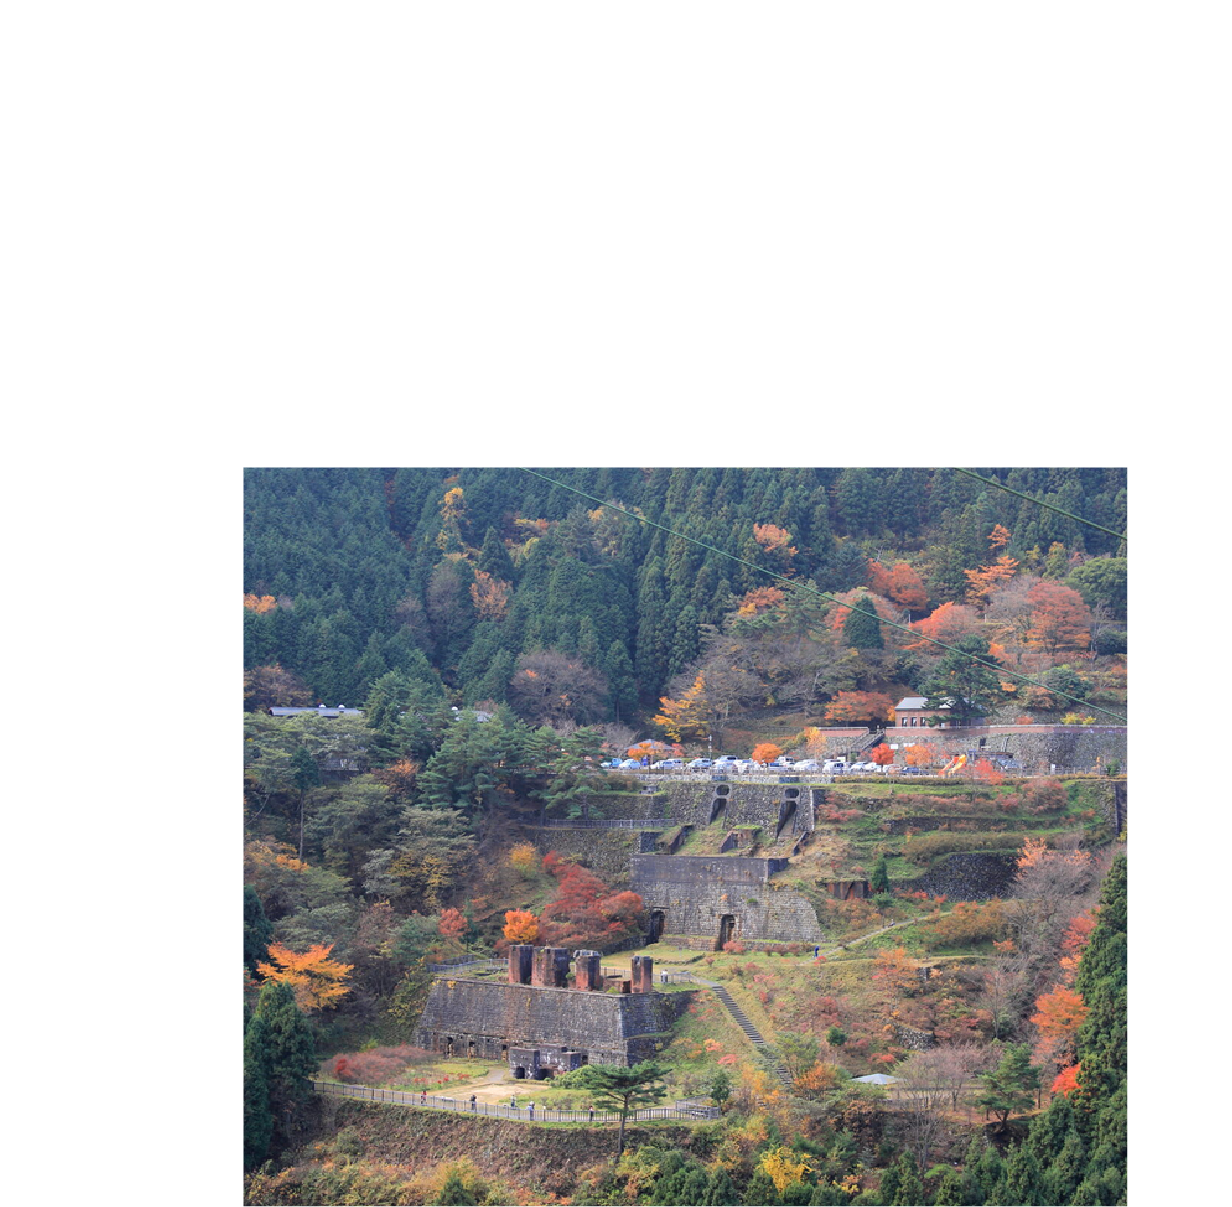
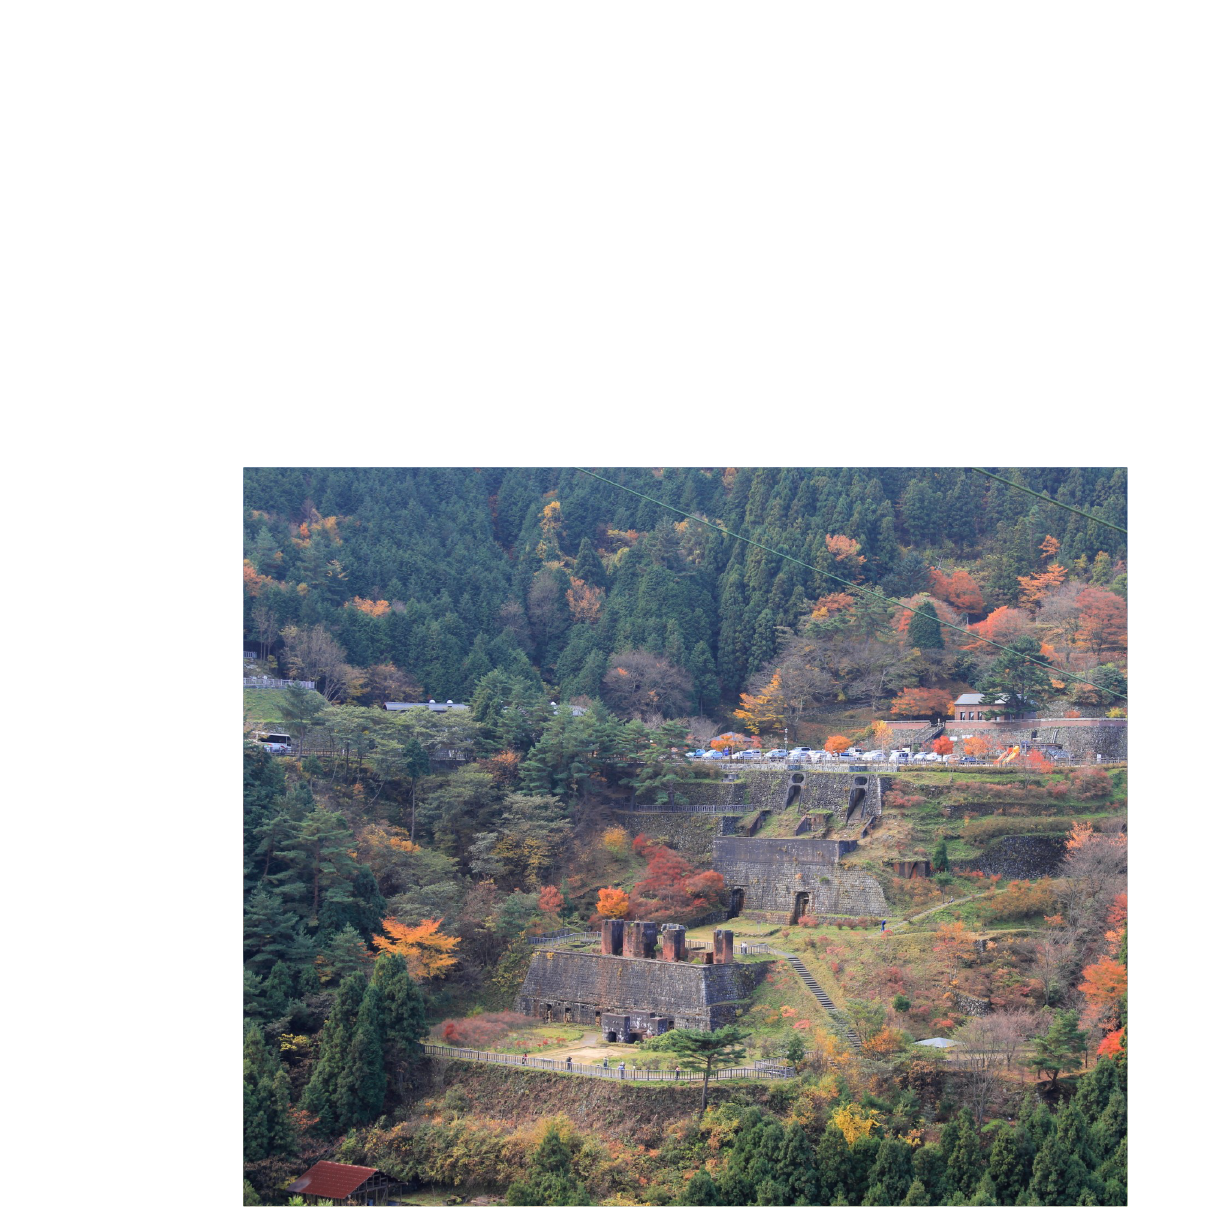
画像変更

diff --git a/6cc3e4159b7ddddef69b4a69f179e1e760fb7e9a97243f63b10006a1e9cb6c56/shikoku.html b/6cc3e4159b7ddddef69b4a69f179e1e760fb7e9a97243f63b10006a1e9cb6c56/shikoku.html
@@ -203,7 +203,7 @@
   </div>
 
   <div class="aomori_img_bottom">
-    <img src="images/Shikoku/kochi/region_kochi02.png" alt="高知の左下画像">
+    <img src="images/Shikoku/kochi/region_kochi02.JPG" alt="高知の左下画像">
     <img src="images/Shikoku/kochi/region_kochi03.png" alt="高知の右下画像">
   </div>
 </div>
